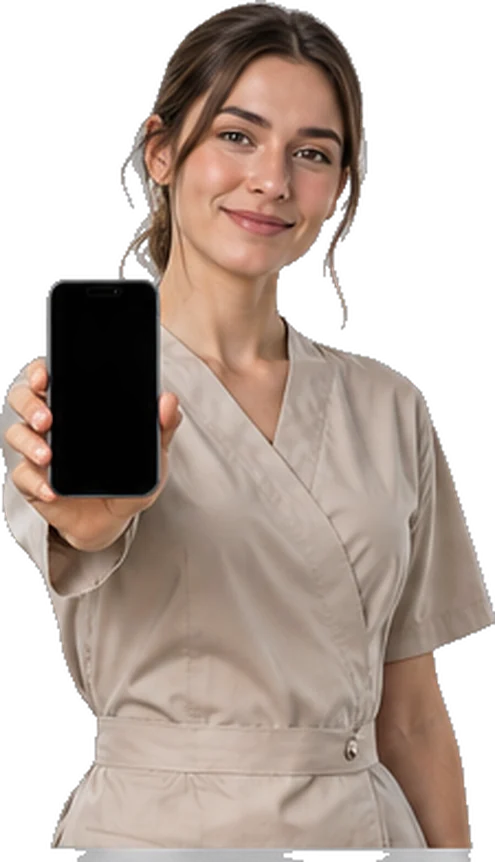
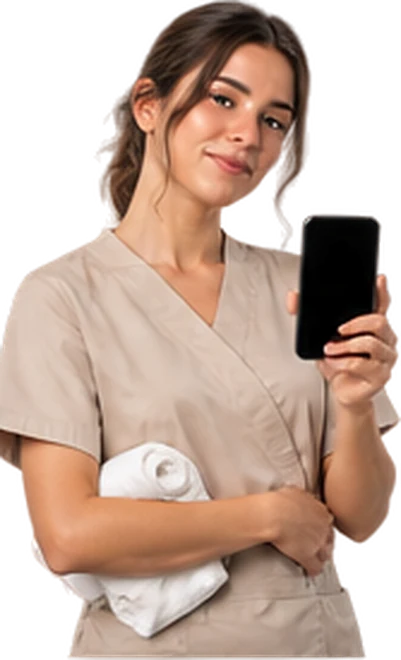
v129: personas nuevas recortadas de la lámina con transparencia real
- Las seis personas de las tarjetas de sector y las cuatro de «Revisa tu web», «Contacto», «Trabaja con nosotros» y la 404 salen ahora de la lámina nueva, que trae el recorte hecho (bordes limpios, sin restos del fondo).
- Las tarjetas llevan poses nuevas (cada persona con los útiles de su oficio) y el diseño real encajado en la pantalla de cada móvil.
- scripts/preparar-imagenes.py sustituye a los dos scripts anteriores y recorta todo de una lámina PNG con transparencia: separa las piezas que se tocan y quita los restos de la vecina.

Claude-Session: https://claude.ai/code/session_01JQtGpP6h1DK5gSRqGDNPPZ

diff --git a/js/portada/escena-datos.js b/js/portada/escena-datos.js
@@ -1,135 +1,135 @@
-/* Generado por scripts/preparar-3d.py: posiciones de las pantallas en las imágenes de img/3d. No editar a mano. */
+/* Generado por scripts/preparar-imagenes.py: posición de la pantalla del móvil de cada persona. No editar a mano. */
 export const ESCENA = {
  "personas": {
   "filo": {
-   "ancho": 554,
-   "alto": 891,
+   "ancho": 425,
+   "alto": 667,
    "pantalla": [
     [
-     72.60000000000001,
-     279.40000000000003
+     72.0,
+     192.0
     ],
     [
-     160.60000000000002,
-     279.40000000000003
+     129.6,
+     192.0
     ],
     [
-     167.20000000000002,
-     481.8
+     136.79999999999998,
+     326.4
     ],
     [
-     66.0,
-     481.8
+     64.8,
+     328.8
     ]
    ]
   },
   "calma": {
-   "ancho": 495,
-   "alto": 862,
+   "ancho": 401,
+   "alto": 660,
    "pantalla": [
     [
-     59.400000000000006,
-     283.8
+     312.0,
+     218.4
     ],
     [
-     147.4,
-     283.8
+     369.59999999999997,
+     218.4
     ],
     [
-     154.0,
-     481.8
+     369.59999999999997,
+     307.2
     ],
     [
-     52.800000000000004,
-     481.8
+     297.59999999999997,
+     350.4
     ]
    ]
   },
   "brasa": {
-   "ancho": 554,
-   "alto": 887,
+   "ancho": 482,
+   "alto": 667,
    "pantalla": [
     [
-     74.80000000000001,
-     310.20000000000005
+     64.8,
+     182.4
     ],
     [
-     160.60000000000002,
-     310.20000000000005
+     127.19999999999999,
+     182.4
     ],
     [
-     171.60000000000002,
-     506.00000000000006
+     132.0,
+     324.0
     ],
     [
-     68.2,
-     508.20000000000005
+     60.0,
+     324.0
     ]
    ]
   },
   "kiosko": {
-   "ancho": 482,
-   "alto": 889,
+   "ancho": 439,
+   "alto": 660,
    "pantalla": [
     [
-     24.200000000000003,
-     310.20000000000005
+     36.0,
+     196.79999999999998
     ],
     [
-     112.2,
-     305.8
+     91.2,
+     196.79999999999998
     ],
     [
-     123.20000000000002,
-     503.80000000000007
+     96.0,
+     328.8
     ],
     [
-     24.200000000000003,
-     503.80000000000007
+     31.2,
+     328.8
     ]
    ]
   },
   "pulso": {
-   "ancho": 535,
-   "alto": 909,
+   "ancho": 437,
+   "alto": 662,
    "pantalla": [
     [
-     72.60000000000001,
-     330.0
+     36.0,
+     177.6
     ],
     [
-     162.8,
-     330.0
+     93.6,
+     175.2
     ],
     [
-     171.60000000000002,
-     532.4000000000001
+     100.8,
+     309.59999999999997
     ],
     [
-     70.4,
-     532.4000000000001
+     31.2,
+     309.59999999999997
     ]
    ]
   },
   "lienzo": {
-   "ancho": 570,
-   "alto": 891,
+   "ancho": 480,
+   "alto": 670,
    "pantalla": [
     [
-     77.0,
-     325.6
+     38.4,
+     204.0
     ],
     [
-     162.8,
-     323.40000000000003
+     93.6,
+     204.0
     ],
     [
-     173.8,
-     525.8000000000001
+     100.8,
+     338.4
     ],
     [
-     70.4,
-     528.0
+     31.2,
+     338.4
     ]
    ]
   }

diff --git a/index.html b/index.html
@@ -301,7 +301,7 @@
     <section id="revisa" class="alt">
       <div class="wrap">
         <div class="rv-portada reveal">
-          <img class="rv-fig" src="img/poses/revisa-lupa.webp" alt="" width="499" height="486" loading="lazy" decoding="async">
+          <img class="rv-fig" src="img/poses/revisa-lupa.webp" alt="" width="564" height="494" loading="lazy" decoding="async">
           <div><h2>¿Cómo está tu web actual?</h2><p>Escribe su dirección: la medimos con Google y la comparamos con una de las nuestras. Gratis y en menos de un minuto.</p></div>
           <form action="revisa-tu-web" method="get">
             <input type="hidden" name="auto" value="1">
@@ -323,7 +323,7 @@
             <div class="cd" id="ctResp"><span></span><div><small>Tiempo de respuesta</small><b>Menos de 24 horas laborables</b></div></div>
           </div>
           <button type="button" class="btn btn-ghost ct-llamada" data-reservar-llamada hidden><i data-i="phone"></i><span>Prefiero que me llaméis</span></button>
-          <img class="ct-fig" src="img/poses/contacto-auriculares.webp" alt="" width="504" height="499" loading="lazy" decoding="async">
+          <img class="ct-fig" src="img/poses/contacto-auriculares.webp" alt="" width="444" height="456" loading="lazy" decoding="async">
         </div>
         <form class="card contacto-form reveal" id="contactoForm" novalidate></form>
       </div>

diff --git a/trabaja-con-nosotros.html b/trabaja-con-nosotros.html
@@ -77,7 +77,7 @@
           </div>
         </div>
         <div class="t-der">
-          <img class="t-equipo" src="img/poses/equipo-1.webp" alt="" width="583" height="493" decoding="async">
+          <img class="t-equipo" src="img/poses/equipo-1.webp" alt="" width="996" height="583" decoding="async">
           <dl class="t-stats">
           <div><dt><em class="num" data-count="0">0</em> €</dt><dd>de inversión inicial</dd></div>
           <div><dt>100 %</dt><dd>en remoto, con horario libre</dd></div>

diff --git a/404.html b/404.html
@@ -47,7 +47,7 @@
     <div class="pub-carga" aria-label="Cargando"><i></i></div>
     <div class="p404">
       <div>
-        <img src="/img/poses/error-404.webp" alt="" width="477" height="491" decoding="async">
+        <img src="/img/poses/error-404.webp" alt="" width="425" height="454" decoding="async">
         <h1>Esta página no existe</h1>
         <p>Puede que el enlace esté mal escrito o que la web ya no esté publicada.</p>
         <a href="/">Ir a AurevixWeb</a>

diff --git a/sw.js b/sw.js
@@ -12,7 +12,7 @@
    - Fotos de los diseños: se guardan la primera vez y después
      salen al instante.
    ========================================================== */
-const VERSION = 'v128';
+const VERSION = 'v129';
 const CACHE = `tumarca-${VERSION}`;
 const FOTOS = 'tumarca-fotos';
 

diff --git a/scripts/preparar-imagenes.py b/scripts/preparar-imagenes.py
@@ -1,0 +1,84 @@
+#!/usr/bin/env python3
+"""
+Prepara las imágenes de personas de la web a partir de una lámina PNG con TRANSPARENCIA REAL (sin fondo):
+  - img/3d/persona-<id>.webp      las 6 personas de las tarjetas «Webs pensadas para tu sector» (enseñan su móvil)
+  - js/portada/escena-datos.js    dónde está la pantalla del móvil de cada una (para poner el diseño encima)
+  - img/poses/*.webp              revisa-lupa, contacto-auriculares, equipo-1 y error-404
+
+Uso:  python3 scripts/preparar-imagenes.py ruta/a/la-lamina.png
+Si se sustituye una pieza por otra de más resolución, vuelve a pasar el script: las posiciones se recalculan solas.
+Necesita: pip install scipy pillow numpy
+"""
+import json, sys
+from pathlib import Path
+import numpy as np
+from PIL import Image, ImageFilter
+from scipy import ndimage as ndi
+
+RAIZ = Path(__file__).resolve().parent.parent
+S3D = RAIZ / 'img' / '3d'; S3D.mkdir(parents=True, exist_ok=True)
+SPOSES = RAIZ / 'img' / 'poses'; SPOSES.mkdir(parents=True, exist_ok=True)
+hoja = Image.open(sys.argv[1]).convert('RGBA'); A = np.array(hoja)
+F = 2.4  # factor de ampliación
+
+# (x0, y0, x1, y1) en la lámina de 1536x1024; los límites entre vecinos se ajustan solos al hueco más estrecho
+CAJAS = {
+ 'persona-filo': (6, 214, 180, 498), 'persona-calma': (176, 216, 354, 498), 'persona-brasa': (366, 214, 570, 498),
+ 'persona-kiosko': (570, 214, 756, 498), 'persona-pulso': (760, 214, 950, 498), 'persona-lienzo': (954, 212, 1166, 498),
+ 'revisa-lupa': (1086, 496, 1324, 708), 'contacto-auriculares': (326, 712, 507, 910), 'equipo-1': (728, 706, 1148, 958), 'error-404': (1146, 712, 1318, 910),
+}
+
+# restos de la pieza vecina que se cuelan en el recorte: (x0, y0, x1, y1, regla) en la lámina.
+# «blanco» borra lo muy claro (una manga), «claro» borra lo que no es negro puro (una tableta, una mano)
+EXCLUIR = {'persona-kiosko': [(540, 300, 592, 500, 'blanco')], 'contacto-auriculares': [(322, 840, 356, 910, 'claro')]}
+
+def hueco(x, y0, y1, ancho=14):
+    """Columna cercana a x con menos píxeles opacos: ahí se separa una pieza de la vecina."""
+    cols = range(max(0, x - ancho), x + ancho + 1)
+    return min(cols, key=lambda c: int((A[y0:y1, c, 3] > 20).sum()))
+
+def pieza(caja, nombre='', ajusta_izq=True, ajusta_der=True):
+    x0, y0, x1, y1 = caja
+    if ajusta_izq and x0 > 0: x0 = hueco(x0, y0, y1)
+    if ajusta_der: x1 = hueco(x1, y0, y1)
+    a = A[y0:y1, x0:x1].copy()
+    al = a[..., 3].astype(float) * 255 / 252  # el alfa de la lámina llega a 252: se normaliza a opaco
+    al = np.clip(al, 0, 255); al[al < 12] = 0
+    for (ex0, ey0, ex1, ey1, regla) in EXCLUIR.get(nombre, []):
+        sub = a[max(ey0 - y0, 0):max(ey1 - y0, 0), max(ex0 - x0, 0):max(ex1 - x0, 0), :3].astype(int)
+        quitar = (sub.min(2) > 170) if regla == 'blanco' else (sub.max(2) > 62)
+        zona = al[max(ey0 - y0, 0):max(ey1 - y0, 0), max(ex0 - x0, 0):max(ex1 - x0, 0)]; zona[quitar] = 0
+    lab, n = ndi.label(al > 20)
+    if n > 1: al = np.where(lab == (1 + int(np.argmax(ndi.sum(al > 20, lab, range(1, n + 1))))), al, 0)  # solo la pieza grande
+    a[..., 3] = al.astype('uint8')
+    im = Image.fromarray(a, 'RGBA'); bb = im.getchannel('A').point(lambda v: 255 if v > 10 else 0).getbbox()
+    return im.crop(bb), (x0 + bb[0], y0 + bb[1])
+
+def sube(im):
+    g = im.convert('RGBa').resize((round(im.width * F), round(im.height * F)), Image.LANCZOS).convert('RGBA')
+    rgb = g.convert('RGB').filter(ImageFilter.UnsharpMask(radius=1.1, percent=55, threshold=2)); rgb.putalpha(g.getchannel('A')); return rgb
+
+def pantalla_movil(im):
+    """Esquinas (TL, TR, BR, BL) de la pantalla del móvil: el rectángulo negro más rectangular y de proporción de móvil."""
+    a = np.array(im); oscuro = (a[..., :3].max(2) < 34) & (a[..., 3] > 200)
+    oscuro = ndi.binary_opening(oscuro, iterations=2); lab, n = ndi.label(oscuro); mejor = None
+    for i in range(1, n + 1):
+        ys, xs = np.nonzero(lab == i); w = xs.max() - xs.min() + 1; h = ys.max() - ys.min() + 1
+        area = len(xs)
+        if not (700 < area < 5500) or not (.35 < w / h < .75): continue
+        pts = np.stack([xs, ys], 1); s = pts.sum(1); d = pts[:, 0] - pts[:, 1]
+        rect = area / (w * h)
+        if rect > .7 and (mejor is None or rect > mejor[0]):
+            mejor = (rect, [pts[s.argmin()], pts[d.argmax()], pts[s.argmax()], pts[d.argmin()]])
+    return mejor and [[float(p[0]) * F, float(p[1]) * F] for p in mejor[1]]
+
+datos = {'personas': {}}
+for k, caja in CAJAS.items():
+    im, _ = pieza(caja, k); g = sube(im)
+    if k.startswith('persona-'):
+        g.save(S3D / f'{k}.webp', 'WEBP', quality=88, method=6)
+        datos['personas'][k[8:]] = {'ancho': g.width, 'alto': g.height, 'pantalla': pantalla_movil(im)}
+    else:
+        g.save(SPOSES / f'{k}.webp', 'WEBP', quality=88, method=6)
+(RAIZ / 'js' / 'portada' / 'escena-datos.js').write_text('/* Generado por scripts/preparar-imagenes.py: posición de la pantalla del móvil de cada persona. No editar a mano. */\nexport const ESCENA = ' + json.dumps(datos, indent=1) + ';\n')
+print(json.dumps({k: (v['ancho'], v['alto'], bool(v['pantalla'])) for k, v in datos['personas'].items()}))
